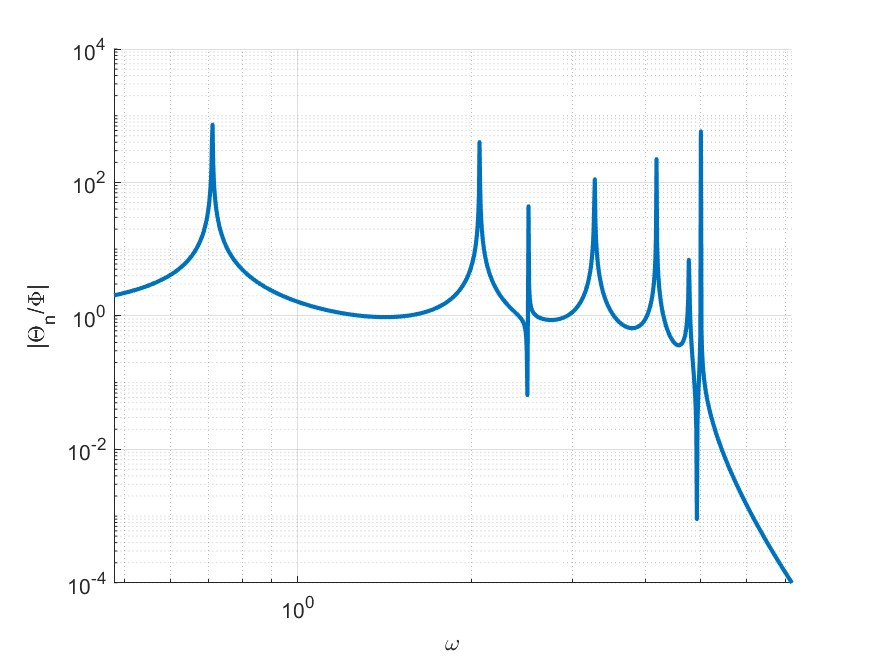
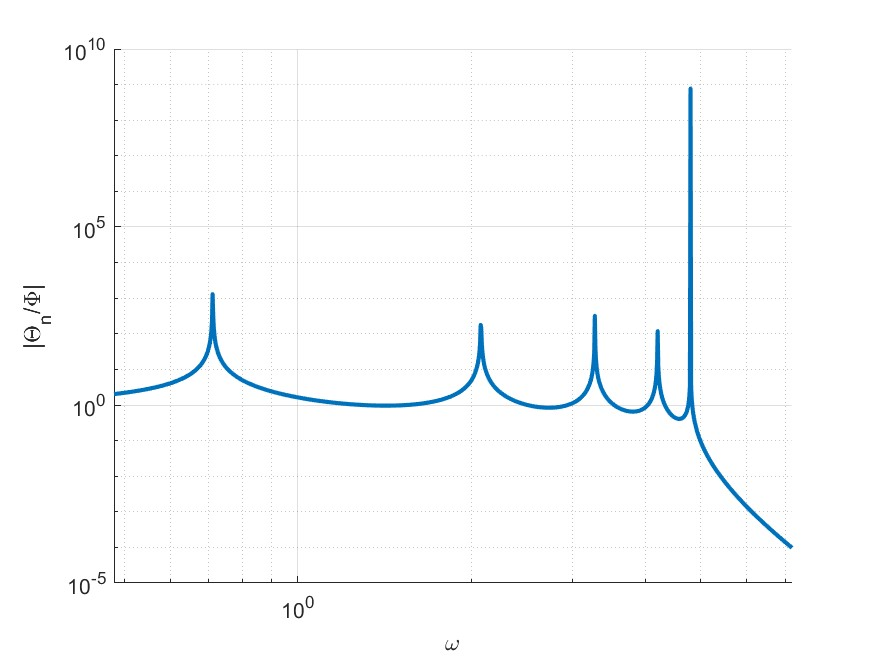
Using Search Along Frequency

diff --git a/main.m b/main.m
@@ -87,6 +87,8 @@ end
 
 % Timer Start
 c_start = tic();
+% Maximum Excitation Frequency
+w_e_max = max(w) * 1.5;
 % Excitation Frequency Range
 w_e_range = max(w) * (10.^(-1:0.001:log10(1.5)));
 % Base Excitation (Divided by sin(wt))
@@ -133,7 +135,7 @@ x_0 = [1, 1];
 % Lower Bound
 x_lb = [0, 0];
 % Optimized Function
-x_f = @(x) f_T_range(n, w_e_range, M, f_C(n, m, na, f_ca(x)), K, F, P_);
+x_f = @(x) f_T_max(n, w_e_max, M, f_C(n, m, na, f_ca(x)), K, F, P_);
 % Optimization Options
 x_options = optimoptions('fminimax');
 x_options.MaxIterations = 2e3;
@@ -198,7 +200,7 @@ for na1 = 1:n - 1
         na_j(1) = na1;
         na_j(2) = na2;
         % Optimize
-        [Ia_j, ca_j, T_minimax_j] = f_T_minimax(n, m, na_j, u, I, k);
+        [Ia_j, ca_j, T_minimax_j] = f_T_minimax(n, w_e_max, m, na_j, u, I, k);
         % ... replace if better.
         if T_minimax > T_minimax_j
             na = na_j;
@@ -215,8 +217,6 @@ if ~isinf(T_minimax)
     C = f_C(n, m, na, ca);
     % Stiffness Matrix
     K = f_K(n, m, k);
-    % Natural Frequencies in rad/s
-    w = f_w(n, m, M, K);
     % Plot
     plot_T_range(n, w_e_range, M, C, K, F, P_, 'Part D Transmissibility');
 end
@@ -234,9 +234,6 @@ if ~isinf(T_minimax)
     file.prmat("[-] M", M, "%7.1f");
     file.prmat("[-] C", C, "%7.1f");
     file.prmat("[-] K", K, "%7.1f");
-    for j = 1:n + m
-        file.print("[*] w_%1.0f = %5.3f %5s", j, w(j), "rad/s");
-    end
 else
     file.print("[!] Could not found even a single finite solution!");
 end
@@ -282,21 +279,7 @@ function K = f_K(n, m, k)
     end
 end
 
-% Natural Frequencies in rad/s
-function w = f_w(n, m, M, K)
-    % First Transformation
-    M_ = M^(-1/2);
-    K_ = M_ * K * M_;
-    % Eigenvector and Eigenvalue Matrix
-    [~, L] = eig(K_);
-    % Natural Frequencies in rad/s
-    w = zeros(n + m, 1);
-    for j = 1:n + m
-        w(j) = L(j, j)^(1/2);
-    end
-end
-
-function [Ia, ca, T_minimax] = f_T_minimax(n, m, na, u, I, k)
+function [Ia, ca, T_minimax] = f_T_minimax(n, w_e_max, m, na, u, I, k)
     % Stiffness Matrix
     K = f_K(n, m, k);
     % Base Excitation (Divided by sin(wt))
@@ -313,7 +296,7 @@ function [Ia, ca, T_minimax] = f_T_minimax(n, m, na, u, I, k)
     % Lower Bound
     x_lb = [0, 0, 0, 0];
     % Optimized Function
-    x_f = @(x) f_T_partd(n, m, na, f_Ia(x), f_ca(x), I, K, F, P_);
+    x_f = @(x) f_T_max(n, w_e_max, f_M(n, m, I, f_Ia(x)), f_C(n, m, na, f_ca(x)), K, F, P_);
     % Linear Equality Constraint
     x_Aeq = [1, 1, 0, 0];
     x_beq = u;
@@ -331,25 +314,19 @@ function [Ia, ca, T_minimax] = f_T_minimax(n, m, na, u, I, k)
     T_minimax = x_maxfval;
 end
 
-% Transmissibility Range Part D
-function T_partd = f_T_partd(n, m, na, Ia, ca, I, K, F, P_)
-    M = f_M(n, m, I, Ia);
-    C = f_C(n, m, na, ca);
-    w = f_w(n, m, M, K);
-    T_partd = f_T_range(n, w, M, C, K, F, P_);
-end
-
-% Transmissibility Range for the Given Excitation Frequency Range
-function T_range = f_T_range(n, w_e_range, M, C, K, F, P_)
-    % Transmissibility Range
-    T_range = zeros(size(w_e_range));
-    for j = 1:length(w_e_range)
-        % Base Excitation Frequency
-        w_e = w_e_range(j);
-        if w_e ~= 0
-            T_range(j) = f_T(n, w_e, M, C, K, F, P_);
-        end
-    end
+function T_max = f_T_max(n, w_e_max, M, C, K, F, P_)
+    % Optimization Parameter Vector
+    % [w_e]
+    % Lower Bound
+    x_1 = 0;
+    % Upper Bound
+    x_2 = w_e_max;
+    % Optimized Function
+    x_f = @(x) -f_T(n, x, M, C, K, F, P_);
+    % Optimization Results
+    [~, x_fval] = fminbnd(x_f, x_1, x_2);
+    % Maximum Transmissibility
+    T_max = -x_fval;
 end
 
 % Transmissibility
@@ -365,7 +342,10 @@ end
 % Plot Transmisibility Range
 function plot_T_range(n, w_e_range, M, C, K, F, P_, title)
     % Transmissibility Range
-    T_range = f_T_range(n, w_e_range, M, C, K, F, P_);
+    T_range = zeros(size(w_e_range));
+    for j = 1:length(w_e_range)
+        T_range(j) = f_T(n, w_e_range(j), M, C, K, F, P_);
+    end
     % Plot
     figure();
     set(gca, 'YScale', 'log');
